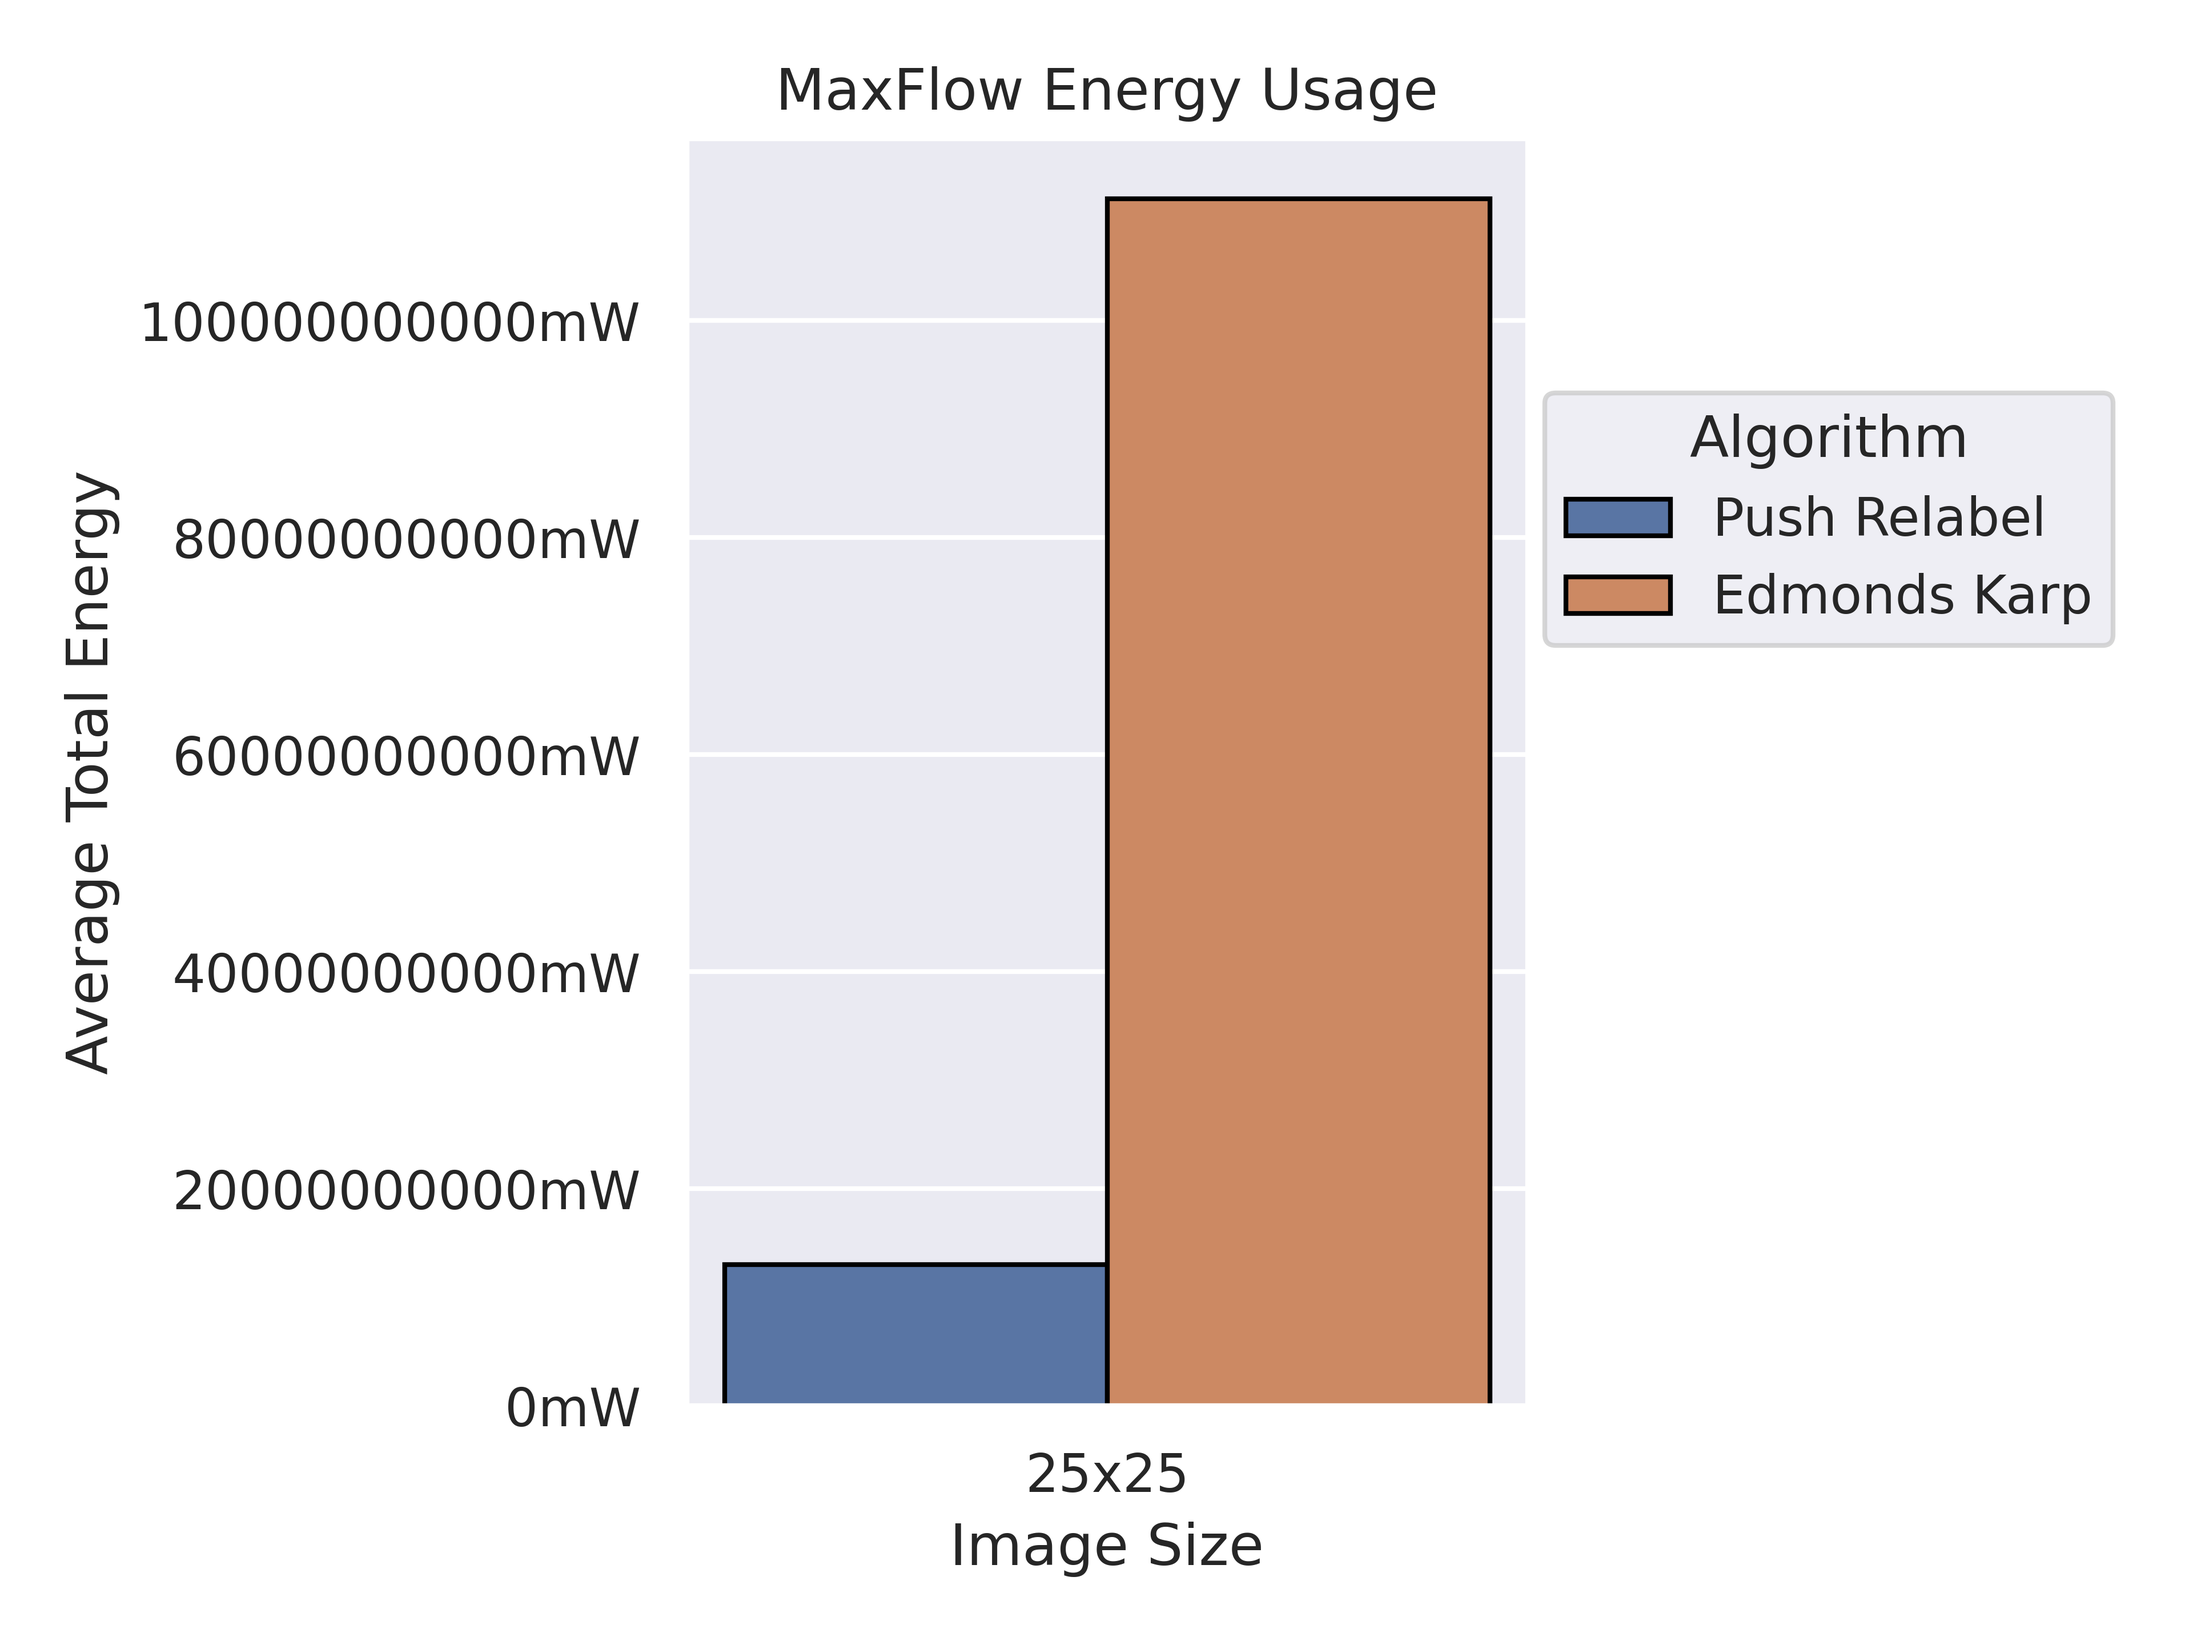
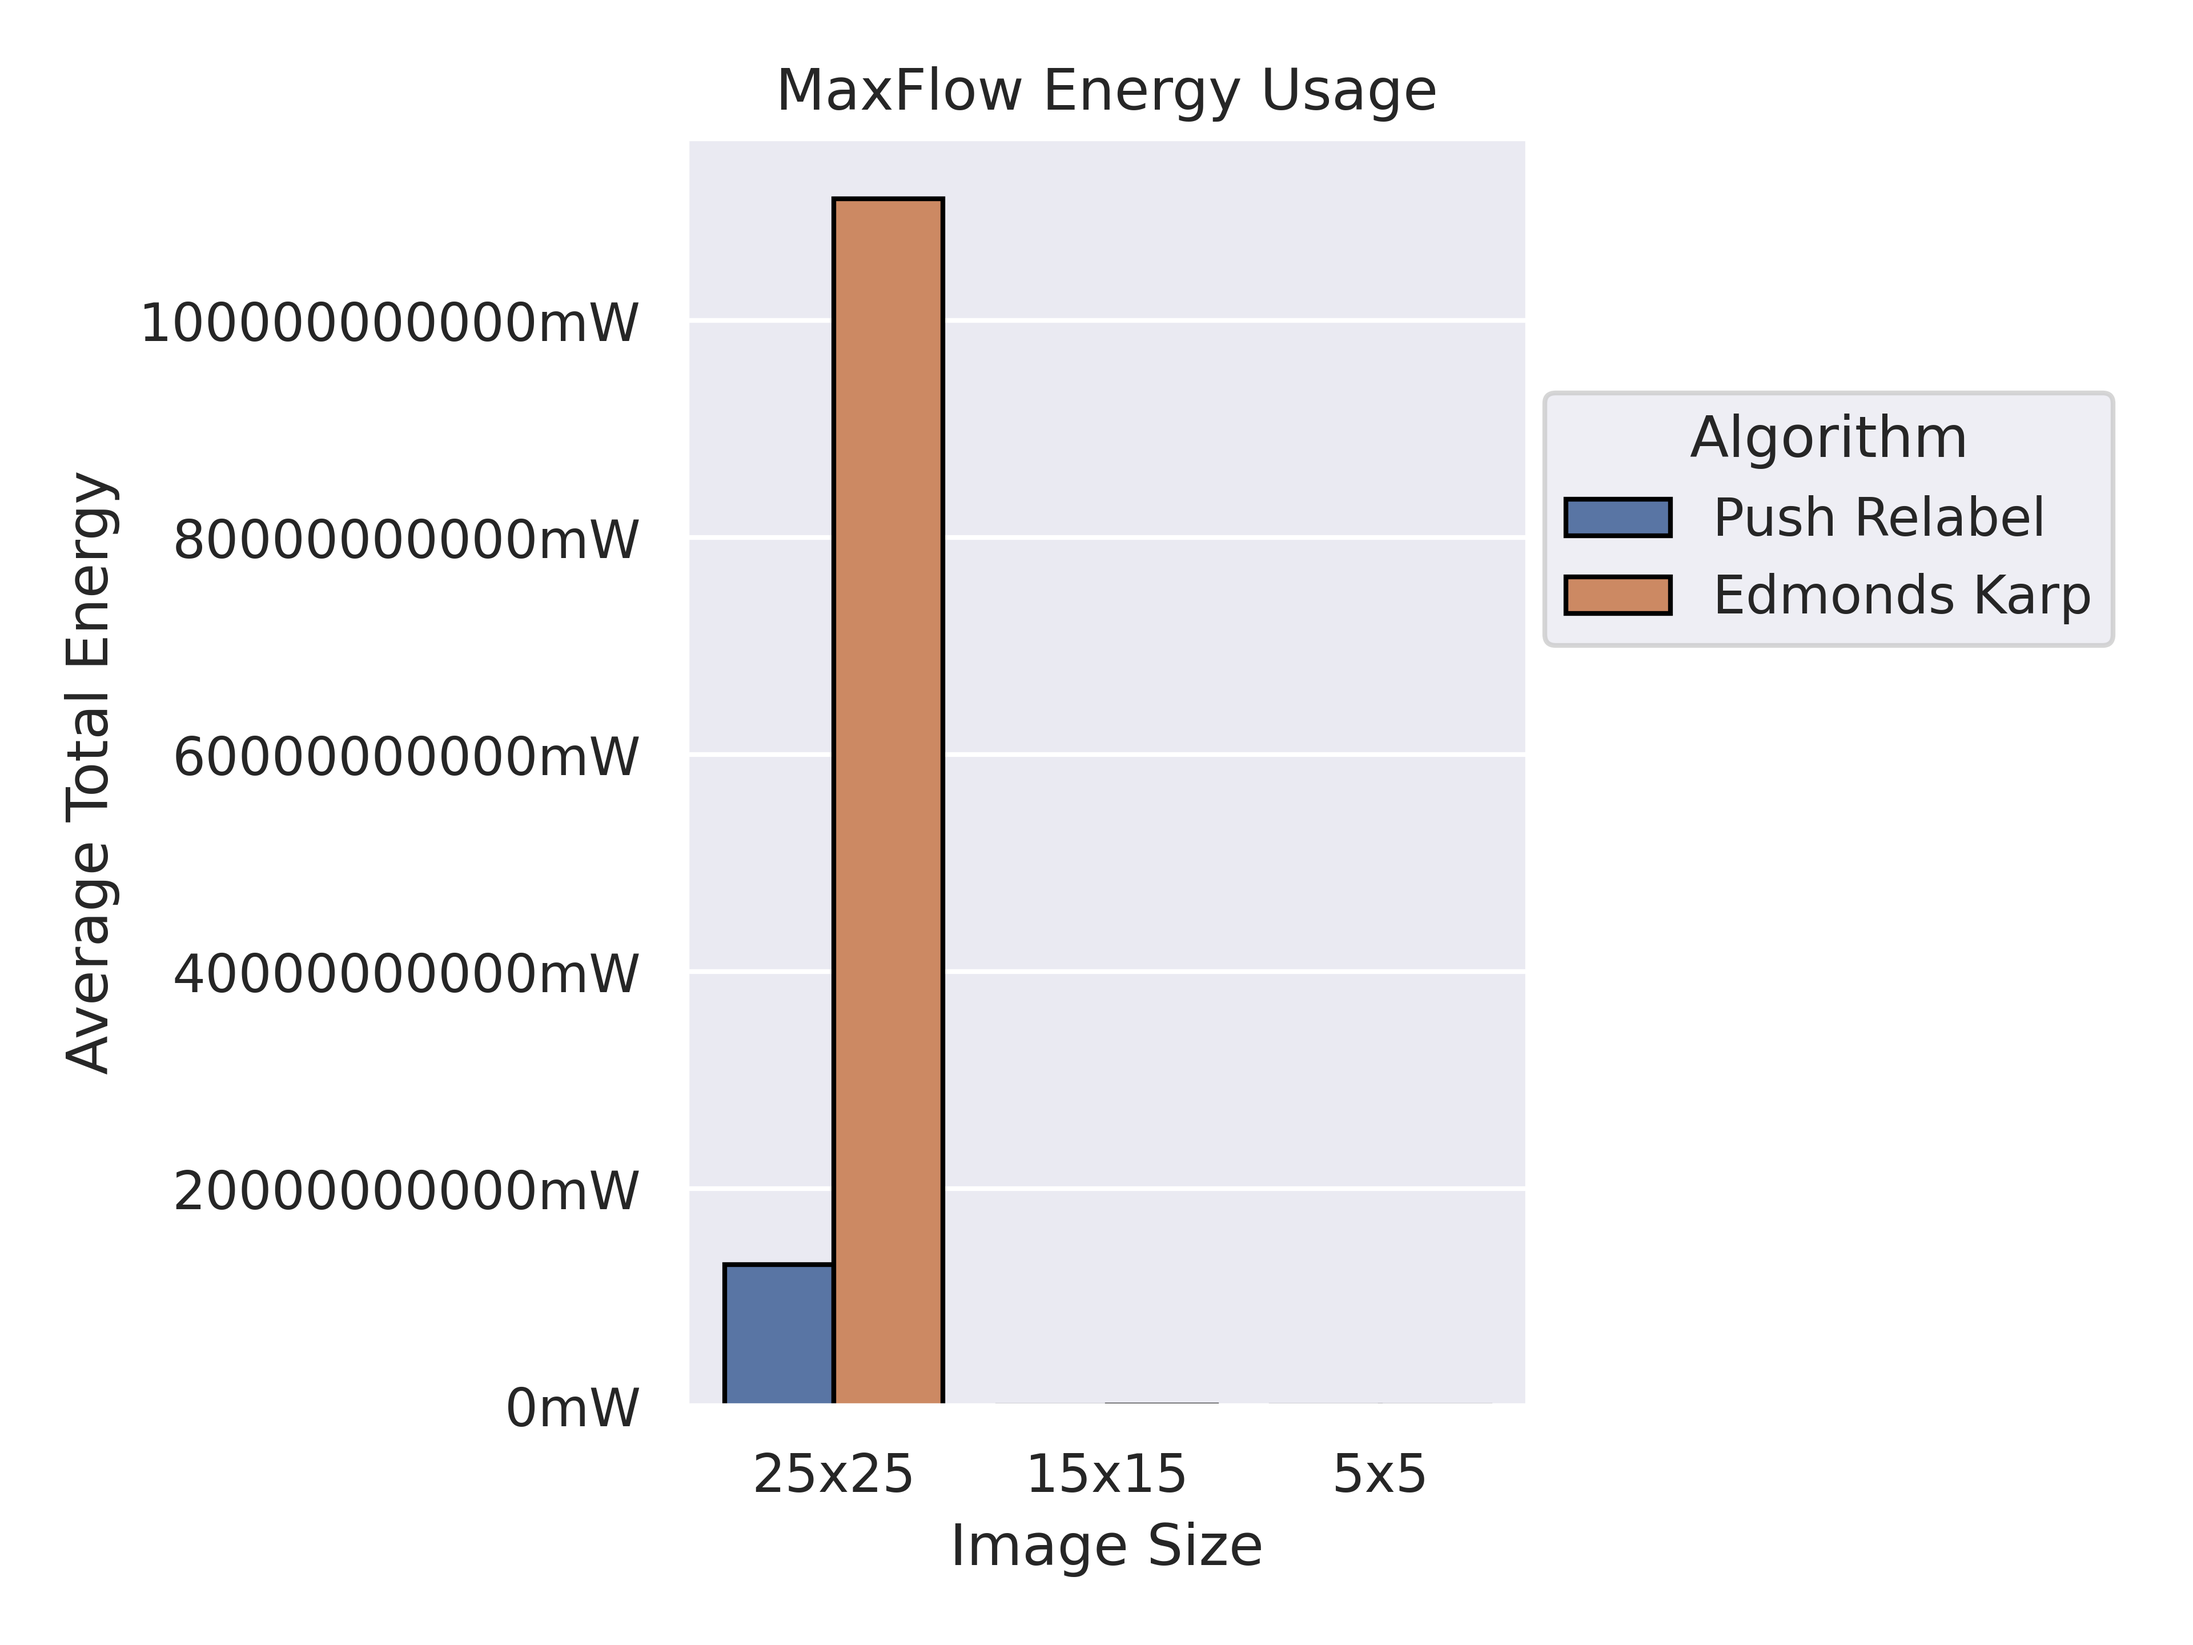
finished plots

Changed region(s): [[0.3438, 0.0938, 0.6875, 0.9062]]

diff --git a/plots.py b/plots.py
@@ -16,7 +16,7 @@ accelerators = ["pl", "ek"]
 acclerators_names = ["Push Relabel", "Edmonds Karp"]
 
 all_image_sizes = ["25x25", "15x15", "5x5"]
-image_sizes = ["25x25"]
+image_sizes = ["25x25", "15x15", "5x5"]
 
 all_images = ["circle0", "circle1", "circle2", "circle3", "circle4", "circle5"]
 images = ["circle0", "circle1", "circle2", "circle3", "circle4", "circle5"];
